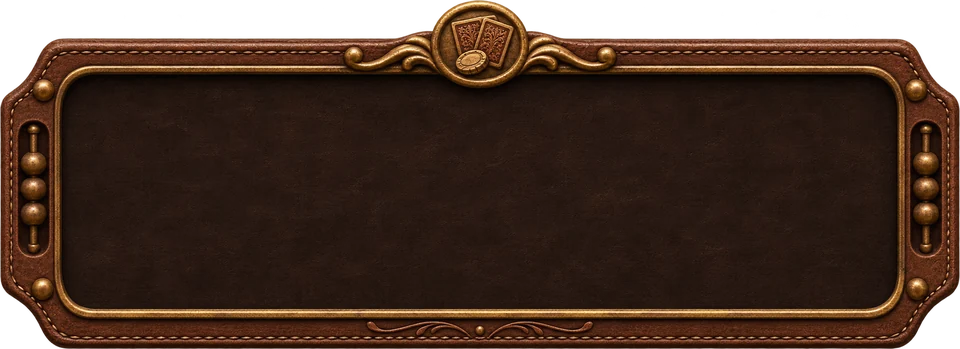
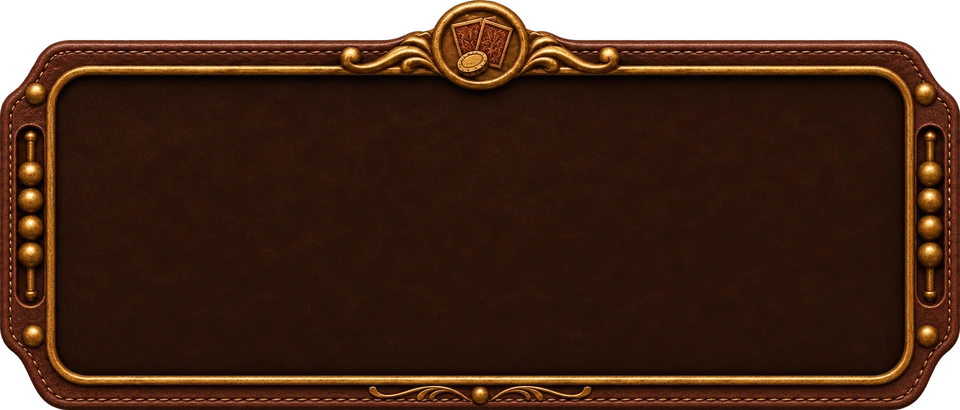
[GHI#122] Illustrate the Counting Captures overlay

Changed region(s): [[0.0, 0.0, 1.0, 1.0]]

diff --git a/src/modules/match/ui/components/overlays/CaptureCount.tsx b/src/modules/match/ui/components/overlays/CaptureCount.tsx
@@ -1,74 +1,140 @@
 import { cn } from "cn";
+import { useId } from "react";
 
-import cardDraw from "@/assets/icons/card-draw.svg";
-import sparkles from "@/assets/icons/sparkles.svg";
-import coins from "@/assets/lobby/card-hall/icons/two-coins.svg";
+import bonusCoin from "@/assets/lobby/tavern-match/capture-bonus-coin.webp";
+import tile from "@/assets/lobby/tavern-match/capture-ivory-tile.webp";
+import bluePocket from "@/assets/lobby/tavern-match/capture-pocket-blue.webp";
+import greenPocket from "@/assets/lobby/tavern-match/capture-pocket-green.webp";
+import redPocket from "@/assets/lobby/tavern-match/capture-pocket-red.webp";
+import ribbon from "@/assets/lobby/tavern-match/capture-ribbon.webp";
 import tray from "@/assets/lobby/tavern-match/capture-tray.webp";
-import { Icon } from "@/components/icons/Icon";
+import sprig from "@/assets/ui/dividers/oak-sprig.webp";
+import { BronzeArrow } from "@/components/dividers/BronzeArrow";
 
 import type { MatchMotion } from "../../../application/localMatch";
+import { MatchPlaque } from "../board/MatchPlaque";
+import { matchSideSeals } from "../board/matchSideSeals";
 import { scoreSideStyle } from "../board/scoreSideStyle";
+import "./CaptureCount.css";
+
+const pockets = new Map([
+  ["1", bluePocket],
+  ["2", redPocket],
+  ["3", greenPocket],
+]);
 
 export function CaptureCount({
   groups,
   sideName,
+  snapshot,
 }: {
   groups: Extract<MatchMotion, { kind: "count" }>["groups"];
   sideName: (side: string) => string;
+  snapshot?: Readonly<Record<number, { counted: number; points: number; extraCard?: boolean }>>;
 }) {
+  const title = useId();
+
   return (
     <section
-      aria-labelledby="capture-count-title"
-      className="pointer-events-none absolute top-1/2 left-1/2 isolate z-10 grid w-[min(calc(100%-1rem),32rem)] -translate-1/2 justify-items-center gap-4 px-6 pt-[4.5rem] pb-8 text-center text-artwork-foreground sm:px-10 compact-landscape:max-w-[25rem] compact-landscape:gap-2 compact-landscape:pt-12 compact-landscape:pb-6"
+      aria-labelledby={title}
+      className="[container-type:inline-size] pointer-events-none absolute top-1/2 left-1/2 isolate z-10 aspect-[960/410] min-h-36 w-[min(calc(100%-0.5rem),40rem)] -translate-1/2 text-center text-artwork-foreground compact-landscape:max-w-120"
     >
       <img src={tray} alt="" className="absolute inset-0 -z-10 size-full" />
-      <h2
-        id="capture-count-title"
-        className="artwork-title text-[clamp(1rem,4vmin,1.5rem)] leading-none"
-      >
-        Counting captures
-      </h2>
-      <ul className="flex w-full justify-center gap-1 sm:gap-3">
-        {groups.map(({ side }) => (
-          <li key={side} className="grid min-w-0 flex-1 justify-items-center gap-1 text-xs">
-            <span
-              className={cn(
-                "max-w-full truncate rounded-md border border-gold/45 bg-linear-to-b px-2 py-1",
-                scoreSideStyle(String(side))?.plate,
-              )}
-            >
-              {sideName(String(side))}
-            </span>
-            <div data-capture-counter={side} className="grid justify-items-center gap-1">
-              <span className="flex items-center gap-1 whitespace-nowrap tabular-nums">
-                <Icon icon={cardDraw} className="size-3.5 text-gold" />
-                <span data-capture-cards className="min-w-[2ch]">
-                  0
-                </span>
-                <span className="sr-only"> captured cards</span>
-              </span>
-              <div
-                data-capture-anchor={side}
-                className="relative flex items-center gap-1 rounded-full border border-gold/50 bg-artwork-shadow px-2 py-1 text-gold tabular-nums shadow-sm"
+      <div className="absolute inset-x-[11.5%] top-[21%] bottom-[10%] flex flex-col gap-[clamp(0.375rem,1.7cqw,0.625rem)]">
+        <h2
+          id={title}
+          className="flex shrink-0 translate-y-[3px] items-center justify-center gap-1.5 artwork-title text-[clamp(0.75rem,3.65cqw,1.25rem)] leading-none whitespace-nowrap"
+        >
+          <BronzeArrow className="h-1.5 max-w-14 min-w-0 flex-1" />
+          <img src={sprig} alt="" className="w-[4%] shrink-0 -scale-x-100" />
+          Counting captures
+          <img src={sprig} alt="" className="w-[4%] shrink-0" />
+          <BronzeArrow direction="left" className="h-1.5 max-w-14 min-w-0 flex-1" />
+        </h2>
+        <ul className="flex min-h-0 w-full flex-1 justify-center gap-[4%]">
+          {groups.map(({ side }) => {
+            const key = String(side);
+            const team = scoreSideStyle(key);
+            const seal = matchSideSeals.get(key);
+            const tally = snapshot?.[side];
+            const pocket = pockets.get(key) ?? bluePocket;
+            return (
+              <li
+                key={side}
+                className="flex max-w-30 min-w-0 flex-1 flex-col items-center gap-[clamp(0.25rem,1.1cqw,0.5rem)]"
               >
-                <Icon icon={coins} className="size-4" />
-                <span data-capture-points className="min-w-[2ch] text-center font-semibold">
-                  0
-                </span>
-                <span className="sr-only"> bonus points</span>
-                <span
-                  aria-hidden="true"
-                  data-capture-burst
-                  className="invisible absolute bottom-full left-1/2 z-10 flex -translate-x-1/2 items-center gap-1 rounded-full border border-gold bg-artwork-shadow px-2 py-1 text-[0.625rem] font-semibold whitespace-nowrap"
-                >
-                  <Icon icon={sparkles} className="size-3" />
-                  Extra card!
-                </span>
-              </div>
-            </div>
-          </li>
-        ))}
-      </ul>
+                <MatchPlaque className="w-[90%] shrink-0 px-1.5 py-0.5 text-[clamp(0.5625rem,2.2cqw,0.75rem)] sm:py-1">
+                  {team && (
+                    <span
+                      aria-hidden="true"
+                      className={cn("match-plaque-team-face bg-linear-to-b", team.plate)}
+                    />
+                  )}
+                  <span className="min-w-0 truncate">{sideName(key)}</span>
+                </MatchPlaque>
+                <div data-capture-counter={side} className="relative isolate min-h-0 w-full flex-1">
+                  <img
+                    src={pocket}
+                    alt=""
+                    className="absolute inset-x-0 top-[15%] h-[85%] w-full"
+                  />
+                  <div className="absolute inset-x-[7%] top-0 isolate grid h-[49%] place-items-center pb-[20%]">
+                    <img src={tile} alt="" className="absolute inset-0 -z-10 size-full" />
+                    <span
+                      data-capture-cards
+                      className="capture-count-numeral text-[clamp(0.875rem,5.6cqw,2rem)] leading-none font-normal text-artwork-shadow"
+                    >
+                      {tally?.counted ?? 0}
+                    </span>
+                    <span className="sr-only"> captured cards</span>
+                  </div>
+                  <div className="absolute inset-x-0 top-[15%] bottom-0">
+                    <img
+                      src={pocket}
+                      alt=""
+                      className="capture-pocket-front absolute inset-0 size-full"
+                    />
+                    <div
+                      data-capture-anchor={side}
+                      className="absolute bottom-[calc(13%+2px)] left-[46%] isolate inline-flex aspect-square w-[38%] -translate-x-1/2 items-center justify-center pb-[0.18em] font-serif text-[clamp(0.625rem,3.35cqw,1.125rem)] leading-none font-normal text-artwork-shadow tabular-nums sm:left-[47%] compact-landscape:bottom-[calc(10%-1px)] compact-landscape:w-[34%]"
+                    >
+                      <img src={bonusCoin} alt="" className="absolute inset-0 -z-10 size-full" />
+                      <span aria-hidden="true">+</span>
+                      <span data-capture-points>{tally?.points ?? 0}</span>
+                      <span className="sr-only"> bonus points</span>
+                    </div>
+                    {seal && (
+                      <img src={seal} alt="" className="absolute right-[5%] bottom-[9%] w-[24%]" />
+                    )}
+                    <span
+                      aria-hidden="true"
+                      data-capture-burst
+                      className={cn(
+                        "absolute top-[22%] left-1/2 isolate z-10 sm:top-[calc(22%-3px)] compact-landscape:top-[22%]! compact-landscape:top-[calc(22%-2px)] grid h-[20%] min-h-[1.3em] w-[83%] -translate-x-1/2 -translate-y-[2px] place-items-center font-serif text-[clamp(0.5rem,2.1cqw,0.75rem)] leading-[1.1] font-semibold whitespace-nowrap text-artwork-shadow italic",
+                        !tally?.extraCard && "invisible",
+                      )}
+                    >
+                      <img src={ribbon} alt="" className="absolute inset-0 -z-10 size-full" />
+                      <svg
+                        aria-hidden="true"
+                        viewBox="0 0 120 24"
+                        className="h-full w-full overflow-visible fill-current"
+                      >
+                        <path id={`${title}-ribbon-${side}`} d="M 8 16 Q 60 6 112 16" fill="none" />
+                        <text textAnchor="middle" fontSize="13">
+                          <textPath href={`#${title}-ribbon-${side}`} startOffset="50%">
+                            Extra card!
+                          </textPath>
+                        </text>
+                      </svg>
+                    </span>
+                  </div>
+                </div>
+              </li>
+            );
+          })}
+        </ul>
+      </div>
     </section>
   );
 }

diff --git a/src/modules/match/ui/components/board/MatchScoreboard.tsx b/src/modules/match/ui/components/board/MatchScoreboard.tsx
@@ -1,17 +1,9 @@
 import tile from "@/assets/lobby/tavern-match/score-ivory-tile.webp";
-import clubSeal from "@/assets/lobby/tavern-match/score-seal-club.webp";
-import cupSeal from "@/assets/lobby/tavern-match/score-seal-cup.webp";
-import swordSeal from "@/assets/lobby/tavern-match/score-seal-sword.webp";
 import type { GameState } from "@/domain/entities/GameState";
 
+import { matchSideSeals } from "./matchSideSeals";
 import { scoreSideStyle } from "./scoreSideStyle";
 import "./MatchScoreboard.css";
-
-const seals = new Map([
-  ["1", swordSeal],
-  ["2", cupSeal],
-  ["3", clubSeal],
-]);
 
 export function getMatchScores(state: GameState, sideName: (side: string) => string) {
   return [...new Set(state.players.map(({ team }) => String(team)))].map((side) => ({
@@ -37,7 +29,7 @@ export function MatchScoreboard({
       className="match-scoreboard relative isolate flex max-w-full items-start justify-center gap-2 px-9 pt-1 pb-3 data-[two-scores]:gap-3.5 data-[two-scores]:px-10 sm:gap-3 sm:px-11 sm:pb-4 sm:data-[two-scores]:gap-5 sm:data-[two-scores]:px-13 compact-landscape:gap-1.5 compact-landscape:px-7 compact-landscape:pb-2.5 compact-landscape:data-[two-scores]:gap-3.5 compact-landscape:data-[two-scores]:px-9"
     >
       {scores.map(({ side, label, score }) => {
-        const seal = seals.get(side);
+        const seal = matchSideSeals.get(side);
         return (
           <li
             key={side}

diff --git a/src/modules/match/ui/components/previews/matchGallery.tsx b/src/modules/match/ui/components/previews/matchGallery.tsx
@@ -160,6 +160,24 @@ function HandPreview({ canPlay }: { canPlay: boolean }) {
   );
 }
 
+const sampleCaptureGroups = getCountingGroups(sampleMatch("1vs2"));
+
+function CaptureCountPreview() {
+  return (
+    <div className="[container-type:size] relative isolate h-80">
+      <CaptureCount
+        groups={sampleCaptureGroups}
+        sideName={sideName}
+        snapshot={{
+          1: { counted: 12, points: 2, extraCard: true },
+          2: { counted: 8, points: 0 },
+          3: { counted: 7, points: 1 },
+        }}
+      />
+    </div>
+  );
+}
+
 export const matchGallery = {
   title: "Tavern match",
   folder: "match",
@@ -183,13 +201,9 @@ export const matchGallery = {
     {
       name: "CaptureCount",
       source: "src/modules/match/ui/components/overlays/CaptureCount.tsx",
-      variants: "Three sides at the start of the capture count",
+      variants: "Three teams, populated tallies and extra-card ribbon",
       usage: "Tavern match · between rounds",
-      Preview: () => (
-        <PositionedPreview>
-          <CaptureCount groups={getCountingGroups(sampleMatch("1vs2"))} sideName={sideName} />
-        </PositionedPreview>
-      ),
+      Preview: CaptureCountPreview,
     },
     {
       name: "MatchResult",

diff --git a/src/modules/match/ui/components/overlays/CaptureCount.css b/src/modules/match/ui/components/overlays/CaptureCount.css
@@ -1,0 +1,23 @@
+.capture-pocket-front {
+  /* Only the front lip and leather face sit above the ivory counter. */
+  clip-path: polygon(
+    0 4%,
+    5% 10%,
+    12% 15%,
+    22% 20%,
+    34% 23%,
+    50% 24%,
+    66% 23%,
+    78% 20%,
+    88% 15%,
+    95% 10%,
+    100% 4%,
+    100% 100%,
+    0 100%
+  );
+}
+
+.capture-count-numeral {
+  font-family: "Times New Roman", Times, serif;
+  font-variant-numeric: lining-nums tabular-nums;
+}

diff --git a/src/modules/match/ui/components/flow/captureCounterPlayback.ts b/src/modules/match/ui/components/flow/captureCounterPlayback.ts
@@ -49,7 +49,7 @@ export function createCaptureCounterPlayback(
           .fromTo(
             burst,
             { autoAlpha: 0, y: 8, scale: 0.72 },
-            { autoAlpha: 1, y: -6, scale: 1, duration: 0.2, ease: "back.out(2)" },
+            { autoAlpha: 1, y: -2, scale: 1, duration: 0.2, ease: "back.out(2)" },
             0,
           )
           .to(burst, { autoAlpha: 0, y: -19, duration: 0.24, ease: "power1.in" }, 0.27);

diff --git a/src/modules/match/ui/components/board/matchSideSeals.ts b/src/modules/match/ui/components/board/matchSideSeals.ts
@@ -1,0 +1,9 @@
+import clubSeal from "@/assets/lobby/tavern-match/score-seal-club.webp";
+import cupSeal from "@/assets/lobby/tavern-match/score-seal-cup.webp";
+import swordSeal from "@/assets/lobby/tavern-match/score-seal-sword.webp";
+
+export const matchSideSeals = new Map([
+  ["1", swordSeal],
+  ["2", cupSeal],
+  ["3", clubSeal],
+]);

diff --git a/src/modules/match/ui/components/board/MatchPlaque.css b/src/modules/match/ui/components/board/MatchPlaque.css
@@ -27,3 +27,7 @@
     url("/src/assets/lobby/tavern-match/seat-plaque-face-right.png") right / var(--plaque-cap-width)
       100% no-repeat;
 }
+
+.match-plaque:has(.match-plaque-team-face)::before {
+  filter: brightness(1.35) saturate(1.14);
+}

diff --git a/docs/design/tavern-match/README.md b/docs/design/tavern-match/README.md
@@ -161,3 +161,9 @@ The approved [Tavern Pennant scoreboard](scoreboard-mockup.png) pairs a charcoal
 cloth banner and embroidered oak sprigs with ivory tiles and wax seals. The blue
 sword, red cup, and green wooden club identify the score sides. The board uses
 live numbers and sizes the pennant around two or three equal tiles.
+
+The approved [Counting Captures mockup](capture-count-mockup.png) retains the
+illustrated tray. Team nameplates sit above the leather pockets and ivory
+capture totals. The bonus coin sits in the center of each pocket, with the
+scoreboard's wax seal at the lower right. The parchment ribbon appears when
+the capture playback awards an extra card.
